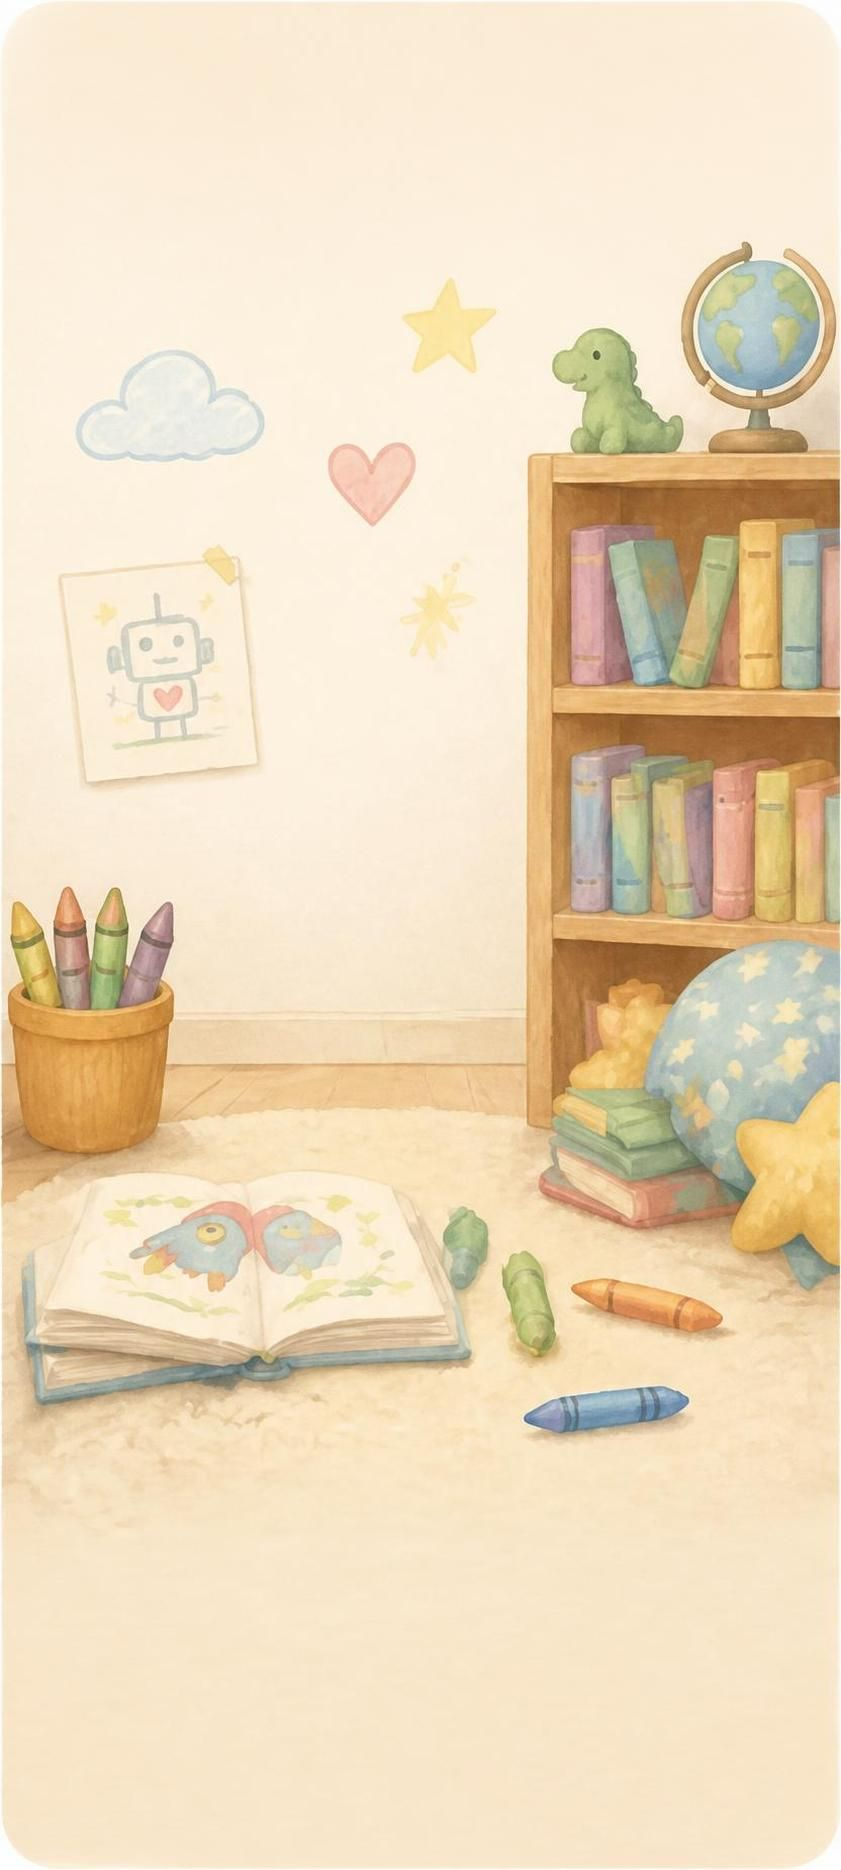
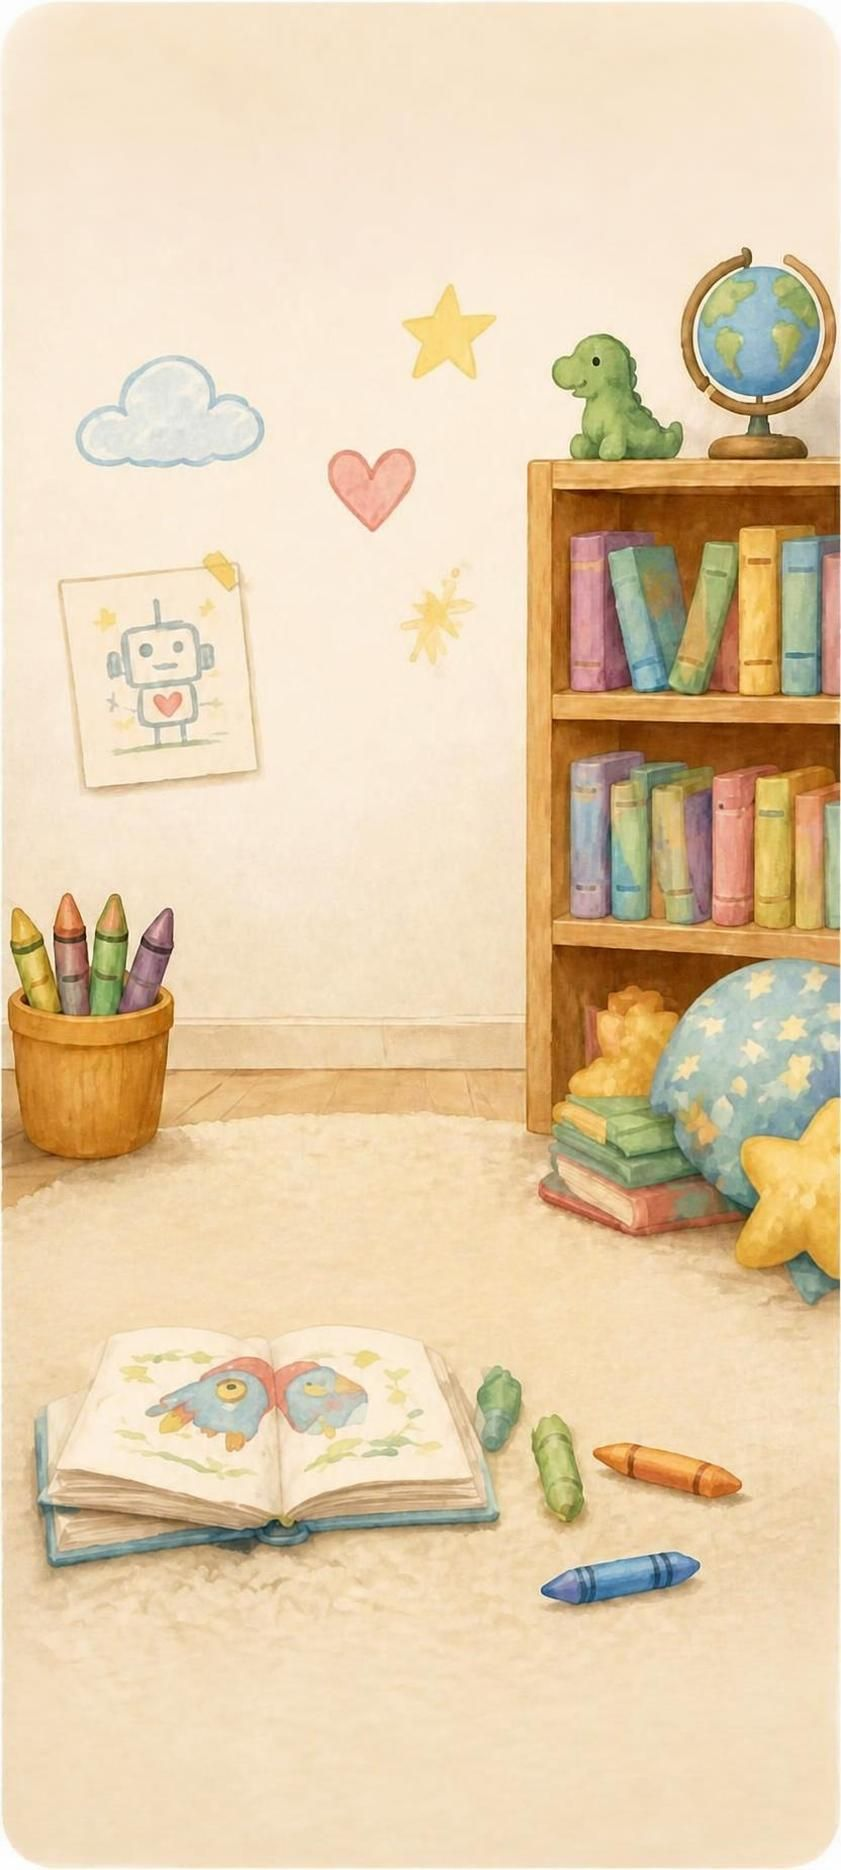
B#51: library.jpg trocada + corpo 32% rodapé + delay fala 1.5s + boca meia lua (D deitado)

diff --git a/lib/widgets/severina_face.dart b/lib/widgets/severina_face.dart
@@ -222,10 +222,42 @@ class _RobotFacePainter extends CustomPainter {
   }
 
   void _drawMouthSpeaking(Canvas canvas, Offset center, double radius, Color color) {
-    final paint = Paint()..color = color..style = PaintingStyle.fill;
-    canvas.drawOval(Rect.fromCenter(center: center, width: radius * 1.4, height: radius * 1.6), paint);
+    // Boca em meia lua (D deitado) apontando pra baixo.
+    // Expande apenas pra baixo (maxilar desce) conforme speakProgress.
+    final paint = Paint()
+      ..color = color
+      ..style = PaintingStyle.fill;
+
+    final halfW = radius * 1.0;
+    final maxDrop = radius * 0.8;
+    final drop = maxDrop * (radius - 4.0) / 12.0; // escala com mouthOpen
+
+    // Arco superior (linha reta na parte de cima) + curva embaixo
+    final path = Path();
+    path.moveTo(center.dx - halfW, center.dy);
+    // Lado esquerdo desce
+    path.quadraticBezierTo(
+      center.dx, center.dy + drop,
+      center.dx + halfW, center.dy,
+    );
+    // Linha de topo (fecha a boca)
+    path.lineTo(center.dx - halfW, center.dy);
+    path.close();
+    canvas.drawPath(path, paint);
+
+    // Interior escuro (expande pra baixo junto)
     final inner = Paint()..color = Colors.black54..style = PaintingStyle.fill;
-    canvas.drawOval(Rect.fromCenter(center: center, width: radius * 0.7, height: radius * 1.0), inner);
+    final innerPath = Path();
+    final innerDrop = drop * 0.7;
+    final innerHalfW = halfW * 0.8;
+    innerPath.moveTo(center.dx - innerHalfW, center.dy);
+    innerPath.quadraticBezierTo(
+      center.dx, center.dy + innerDrop,
+      center.dx + innerHalfW, center.dy,
+    );
+    innerPath.lineTo(center.dx - innerHalfW, center.dy);
+    innerPath.close();
+    canvas.drawPath(innerPath, inner);
   }
 
   void _drawMouthOval(Canvas canvas, Offset center, double w, double h, Color color) {

diff --git a/lib/widgets/severina_scene.dart b/lib/widgets/severina_scene.dart
@@ -9,7 +9,7 @@ export 'severina_face.dart' show SeverinaFaceState;
 /// - Cabeca (CustomPainter do severina_face.dart)
 ///
 /// Corpo dimensionado a 40% da largura da tela, centralizado horizontalmente,
-/// posicionado a ~35% da altura a partir do rodapé. Cabeça encaixada no topo
+/// posicionado a ~32% da altura a partir do rodapé. Cabeça encaixada no topo
 /// do corpo, alinhada pelo x_center do pescoço do PNG (49.4% do centro).
 
 class SeverinaScene extends StatelessWidget {
@@ -39,13 +39,13 @@ class SeverinaScene extends StatelessWidget {
         // Centralizar horizontalmente
         final bodyLeft = (screenW - bodyW) / 2;
         // Posicionar ~25% acima do rodapé (para nao ficar colado no fundo)
-        final bodyTop = screenH - bodyH - (screenH * 0.35);
+        final bodyTop = screenH - bodyH - (screenH * 0.32);
 
         // Cabeça: posicionada no topo do corpo, alinhada horizontalmente
         // com o x_center do pescoco. Largura ~28% da tela.
         final headW = screenW * 0.28;
         // Cabeça fica ligeiramente acima do topo do corpo (sobreposicao)
-        final headTop = bodyTop - headW * 1.05;
+        final headTop = bodyTop - headW * 1.0;
         // Alinhar horizontalmente: pescoco do corpo está a bodyLeft + bodyW * _neckXCenter
         final neckXInBody = bodyLeft + bodyW * _neckXCenter;
         final headLeft = neckXInBody - headW / 2;

diff --git a/lib/screens/chat_screen.dart b/lib/screens/chat_screen.dart
@@ -114,7 +114,7 @@ class _ChatScreenState extends State<ChatScreen> {
         clean,
         onStart: () async {
           // Atraso de 1s para sincronizar a animacao com o audio real.
-          await Future.delayed(const Duration(seconds: 1));
+          await Future.delayed(const Duration(milliseconds: 1500));
           if (mounted) setState(() => _state = SeverinaState.speaking);
         },
         onComplete: () {